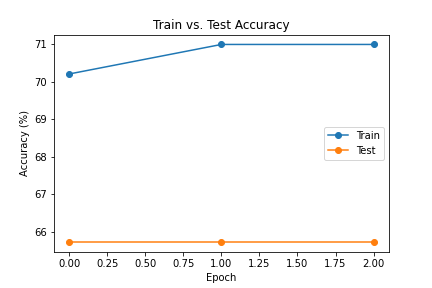
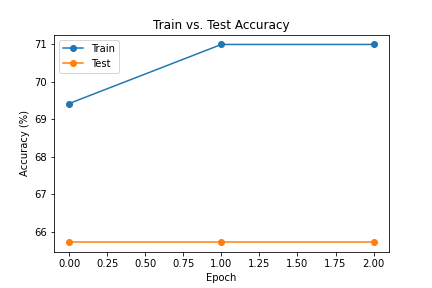
no customized layer is easier for this homework

diff --git a/Project 2/code/nn_pytorch.py b/Project 2/code/nn_pytorch.py
@@ -14,8 +14,8 @@ num_epochs = 3
 num_classes = 2
 num_channels = 3
 load_trained_model = False
-pretrained = True
-reset_classifier_with_custom_layers = True
+pretrained = False
+reset_classifier_with_custom_layers = False
 train_network = True
 evaluate_network = True
 model_type = 'resnet18'
@@ -158,7 +158,7 @@ def get_model(model_type, load_trained_model, reset_classifier_with_custom_layer
     model = model.to(device)
     print("Done.")
     return model
-model = get_model(model_type='resnet50', load_trained_model=False, reset_classifier_with_custom_layers=True, num_classes=num_classes, pretrained=pretrained, device=device, input_model_path=None, input_model_name=None)
+model = get_model(model_type=model_type, load_trained_model=False, reset_classifier_with_custom_layers=reset_classifier_with_custom_layers, num_classes=num_classes, pretrained=pretrained, device=device, input_model_path=None, input_model_name=None)
 
 criterion = nn.CrossEntropyLoss()
 # SGD optimizer with momentum could lead faster to good results, but Adam is more stable
